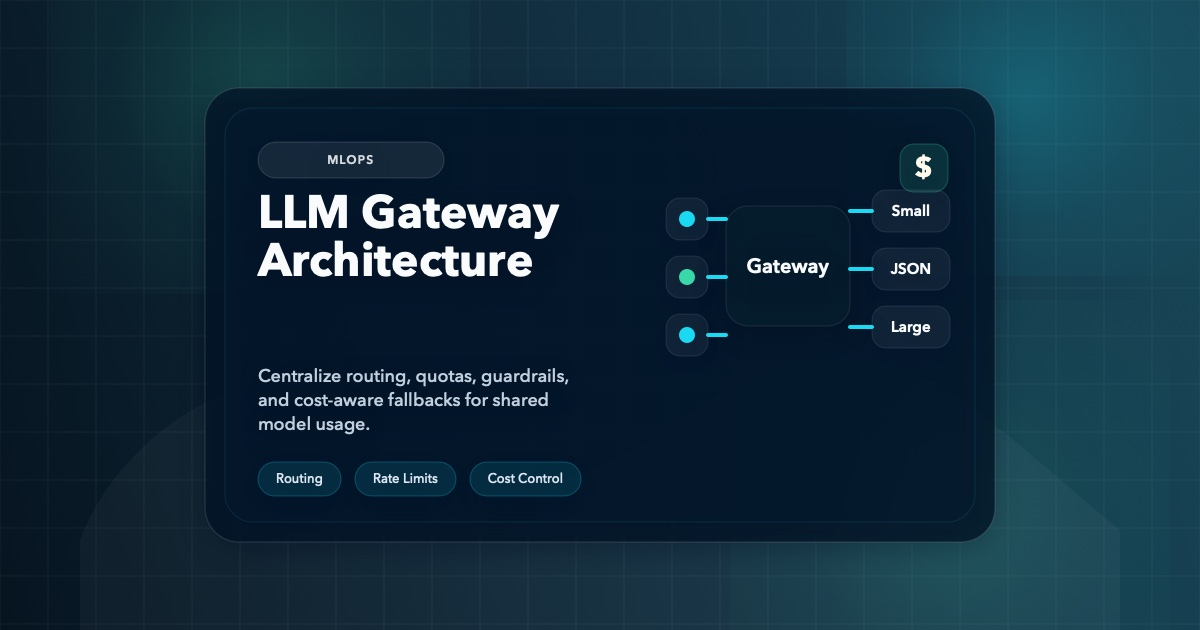
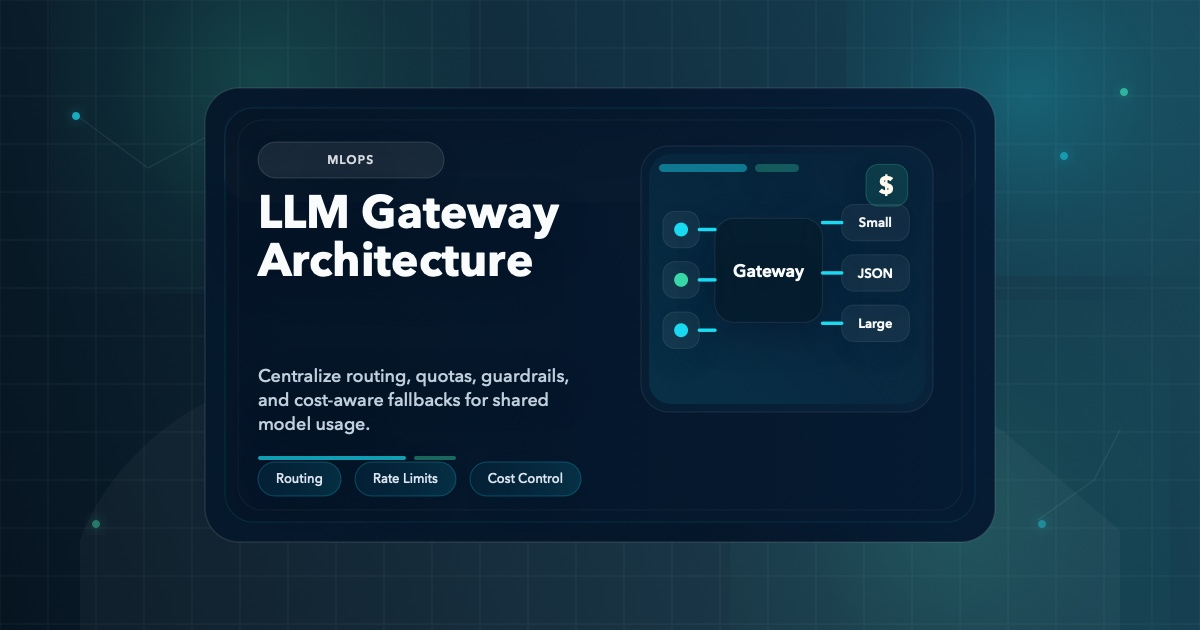
fixed blog cover image loading

diff --git a/scripts/generate-blog-images.swift b/scripts/generate-blog-images.swift
@@ -77,6 +77,62 @@ func fillRoundedRect(_ rect: NSRect, radius: CGFloat, fill: NSColor, stroke: NSC
     }
 }
 
+func fillGradientRoundedRect(
+    _ rect: NSRect,
+    radius: CGFloat,
+    colors: [NSColor],
+    angle: CGFloat,
+    stroke: NSColor? = nil,
+    lineWidth: CGFloat = 1
+) {
+    let path = NSBezierPath(roundedRect: rect, xRadius: radius, yRadius: radius)
+    NSGraphicsContext.current?.saveGraphicsState()
+    path.addClip()
+    NSGradient(colors: colors)?.draw(in: rect, angle: angle)
+    NSGraphicsContext.current?.restoreGraphicsState()
+    if let stroke {
+        stroke.setStroke()
+        path.lineWidth = lineWidth
+        path.stroke()
+    }
+}
+
+func drawOrb(x: CGFloat, y: CGFloat, radius: CGFloat, fill: NSColor, glow: NSColor? = nil) {
+    if let glow {
+        drawGlow(x: x + radius, y: y + radius, radius: radius * 2.8, color: glow, alpha: 0.10)
+    }
+    let orb = NSBezierPath(ovalIn: topRect(x, y, radius * 2, radius * 2))
+    fill.setFill()
+    orb.fill()
+}
+
+func drawBackdropConstellation(accent: NSColor, secondaryAccent: NSColor) {
+    let points: [(CGFloat, CGFloat, NSColor)] = [
+        (72, 112, accent.withAlphaComponent(0.72)),
+        (1120, 88, secondaryAccent.withAlphaComponent(0.72)),
+        (1060, 152, accent.withAlphaComponent(0.48)),
+        (92, 520, secondaryAccent.withAlphaComponent(0.42)),
+        (1038, 520, accent.withAlphaComponent(0.38))
+    ]
+
+    let connectors = NSBezierPath()
+    connectors.move(to: topPoint(72, 112))
+    connectors.line(to: topPoint(148, 168))
+    connectors.line(to: topPoint(204, 138))
+    connectors.move(to: topPoint(1038, 520))
+    connectors.line(to: topPoint(1094, 480))
+    connectors.line(to: topPoint(1120, 430))
+    color(hex: 0xffffff, alpha: 0.08).setStroke()
+    connectors.lineWidth = 1.2
+    connectors.lineJoinStyle = .round
+    connectors.lineCapStyle = .round
+    connectors.stroke()
+
+    for (x, y, fill) in points {
+        drawOrb(x: x, y: y, radius: 4, fill: fill, glow: fill)
+    }
+}
+
 func makeTextAttributes(
     font: NSFont,
     color textColor: NSColor,
@@ -303,10 +359,14 @@ func drawChip(text: String, x: CGFloat, y: CGFloat, accent: NSColor) -> CGFloat 
     let measureAttrs: [NSAttributedString.Key: Any] = [.font: avenir(13, "Avenir Next Medium")]
     let width = ceil(NSString(string: text).size(withAttributes: measureAttrs).width) + 36
     let rect = topRect(x, y, width, 34)
-    fillRoundedRect(
+    fillGradientRoundedRect(
         rect,
         radius: 17,
-        fill: accent.withAlphaComponent(0.12),
+        colors: [
+            color(hex: 0x07192a, alpha: 0.92),
+            accent.withAlphaComponent(0.14)
+        ],
+        angle: 0,
         stroke: accent.withAlphaComponent(0.26)
     )
     drawCenteredText(
@@ -323,28 +383,79 @@ func drawChip(text: String, x: CGFloat, y: CGFloat, accent: NSColor) -> CGFloat 
 func drawCardChrome(accent: NSColor) {
     let cardRect = topRect(205, 88, 790, 454)
     let shadow = NSShadow()
-    shadow.shadowBlurRadius = 30
-    shadow.shadowOffset = NSSize(width: 0, height: -8)
-    shadow.shadowColor = color(hex: 0x020617, alpha: 0.33)
+    shadow.shadowBlurRadius = 42
+    shadow.shadowOffset = NSSize(width: 0, height: -12)
+    shadow.shadowColor = color(hex: 0x020617, alpha: 0.42)
     shadow.set()
 
-    fillRoundedRect(
+    fillGradientRoundedRect(
         cardRect,
         radius: 34,
-        fill: color(hex: 0x04101d, alpha: 0.78),
+        colors: [
+            color(hex: 0x071321, alpha: 0.96),
+            color(hex: 0x05111f, alpha: 0.94),
+            color(hex: 0x08162a, alpha: 0.96)
+        ],
+        angle: 24,
         stroke: color(hex: 0xffffff, alpha: 0.10),
         lineWidth: 1.5
     )
+
+    let topSheen = NSBezierPath(roundedRect: topRect(224, 104, 752, 98), xRadius: 28, yRadius: 28)
+    NSGraphicsContext.current?.saveGraphicsState()
+    topSheen.addClip()
+    NSGradient(colors: [
+        color(hex: 0xffffff, alpha: 0.09),
+        color(hex: 0xffffff, alpha: 0.00)
+    ])?.draw(in: topRect(224, 104, 752, 98), angle: 90)
+    NSGraphicsContext.current?.restoreGraphicsState()
+
     NSGraphicsContext.current?.saveGraphicsState()
     let innerRect = topRect(225, 108, 750, 414)
-    fillRoundedRect(
+    fillGradientRoundedRect(
         innerRect,
         radius: 28,
-        fill: color(hex: 0x061423, alpha: 0.42),
+        colors: [
+            color(hex: 0x071526, alpha: 0.82),
+            color(hex: 0x07111d, alpha: 0.78)
+        ],
+        angle: 180,
         stroke: accent.withAlphaComponent(0.12),
         lineWidth: 1
     )
+    let insetBorder = NSBezierPath(roundedRect: topRect(238, 120, 724, 390), xRadius: 24, yRadius: 24)
+    color(hex: 0xffffff, alpha: 0.05).setStroke()
+    insetBorder.lineWidth = 1
+    insetBorder.stroke()
     NSGraphicsContext.current?.restoreGraphicsState()
+}
+
+func drawArtworkPanel(in rect: NSRect, accent: NSColor, secondaryAccent: NSColor) {
+    fillGradientRoundedRect(
+        rect,
+        radius: 28,
+        colors: [
+            color(hex: 0x0a1a2d, alpha: 0.92),
+            color(hex: 0x091728, alpha: 0.90)
+        ],
+        angle: 180,
+        stroke: color(hex: 0xffffff, alpha: 0.08),
+        lineWidth: 1.2
+    )
+
+    let edgeGlow = NSBezierPath(roundedRect: rect.insetBy(dx: 8, dy: 8), xRadius: 22, yRadius: 22)
+    NSGraphicsContext.current?.saveGraphicsState()
+    edgeGlow.addClip()
+    NSGradient(colors: [
+        accent.withAlphaComponent(0.10),
+        color(hex: 0xffffff, alpha: 0.0)
+    ])?.draw(in: rect.insetBy(dx: 8, dy: 8), angle: 35)
+    NSGraphicsContext.current?.restoreGraphicsState()
+
+    let topRail = NSRect(x: rect.origin.x + 18, y: rect.maxY - 26, width: 88, height: 8)
+    fillRoundedRect(topRail, radius: 4, fill: accent.withAlphaComponent(0.46))
+    let topRail2 = NSRect(x: rect.origin.x + 114, y: rect.maxY - 26, width: 44, height: 8)
+    fillRoundedRect(topRail2, radius: 4, fill: secondaryAccent.withAlphaComponent(0.30))
 }
 
 func drawGpuArtwork(accent: NSColor, secondaryAccent: NSColor) {
@@ -472,12 +583,12 @@ func drawPipelineArtwork(accent: NSColor, secondaryAccent: NSColor) {
     }
 
     let cubeOuter = NSBezierPath()
-    cubeOuter.move(to: topPoint(930, 154))
-    cubeOuter.line(to: topPoint(968, 176))
-    cubeOuter.line(to: topPoint(968, 220))
-    cubeOuter.line(to: topPoint(930, 242))
-    cubeOuter.line(to: topPoint(892, 220))
-    cubeOuter.line(to: topPoint(892, 176))
+    cubeOuter.move(to: topPoint(946, 158))
+    cubeOuter.line(to: topPoint(978, 176))
+    cubeOuter.line(to: topPoint(978, 214))
+    cubeOuter.line(to: topPoint(946, 232))
+    cubeOuter.line(to: topPoint(914, 214))
+    cubeOuter.line(to: topPoint(914, 176))
     cubeOuter.close()
     secondaryAccent.withAlphaComponent(0.18).setFill()
     secondaryAccent.withAlphaComponent(0.42).setStroke()
@@ -486,11 +597,11 @@ func drawPipelineArtwork(accent: NSColor, secondaryAccent: NSColor) {
     cubeOuter.stroke()
 
     let cubeMid = NSBezierPath()
-    cubeMid.move(to: topPoint(930, 154))
-    cubeMid.line(to: topPoint(930, 242))
-    cubeMid.move(to: topPoint(892, 176))
-    cubeMid.line(to: topPoint(930, 198))
-    cubeMid.line(to: topPoint(968, 176))
+    cubeMid.move(to: topPoint(946, 158))
+    cubeMid.line(to: topPoint(946, 232))
+    cubeMid.move(to: topPoint(914, 176))
+    cubeMid.line(to: topPoint(946, 194))
+    cubeMid.line(to: topPoint(978, 176))
     secondaryAccent.withAlphaComponent(0.50).setStroke()
     cubeMid.lineWidth = 2
     cubeMid.stroke()
@@ -878,7 +989,7 @@ func drawCanaryArtwork(accent: NSColor, secondaryAccent: NSColor) {
         )
     }
 
-    let guardRect = topRect(892, 142, 52, 52)
+    let guardRect = topRect(910, 136, 46, 46)
     fillRoundedRect(
         guardRect,
         radius: 16,
@@ -886,12 +997,12 @@ func drawCanaryArtwork(accent: NSColor, secondaryAccent: NSColor) {
         stroke: secondaryAccent.withAlphaComponent(0.34)
     )
     let shield = NSBezierPath()
-    shield.move(to: topPoint(918, 154))
-    shield.line(to: topPoint(932, 160))
-    shield.line(to: topPoint(932, 176))
-    shield.curve(to: topPoint(918, 188), controlPoint1: topPoint(932, 182), controlPoint2: topPoint(924, 188))
-    shield.curve(to: topPoint(904, 176), controlPoint1: topPoint(912, 188), controlPoint2: topPoint(904, 182))
-    shield.line(to: topPoint(904, 160))
+    shield.move(to: topPoint(933, 146))
+    shield.line(to: topPoint(945, 151))
+    shield.line(to: topPoint(945, 165))
+    shield.curve(to: topPoint(933, 175), controlPoint1: topPoint(945, 170), controlPoint2: topPoint(939, 175))
+    shield.curve(to: topPoint(921, 165), controlPoint1: topPoint(927, 175), controlPoint2: topPoint(921, 170))
+    shield.line(to: topPoint(921, 151))
     shield.close()
     color(hex: 0xfffbeb).setFill()
     shield.fill()
@@ -1064,6 +1175,7 @@ func render(spec: CoverSpec, outputDir: URL) throws {
 
     drawGradient(in: topRect(0, 0, canvasWidth, canvasHeight), colors: spec.palette, angle: 18)
     drawGrid()
+    drawBackdropConstellation(accent: spec.accent, secondaryAccent: spec.secondaryAccent)
 
     drawGlow(x: 260, y: 84, radius: 210, color: spec.secondaryAccent, alpha: 0.18)
     drawGlow(x: 1026, y: 96, radius: 180, color: spec.accent, alpha: 0.22)
@@ -1100,13 +1212,53 @@ func render(spec: CoverSpec, outputDir: URL) throws {
         lineHeight: 1.34
     )
 
+    fillRoundedRect(
+        topRect(258, 456, 148, 4),
+        radius: 2,
+        fill: spec.accent.withAlphaComponent(0.70)
+    )
+    fillRoundedRect(
+        topRect(414, 456, 42, 4),
+        radius: 2,
+        fill: spec.secondaryAccent.withAlphaComponent(0.42)
+    )
+
     var chipX: CGFloat = 258
     for text in spec.chipText {
         let chipWidth = drawChip(text: text, x: chipX, y: 462, accent: spec.accent)
         chipX += chipWidth + 14
     }
 
+    NSGraphicsContext.current?.saveGraphicsState()
+    // Fit all right-side artwork into a consistent safe zone so it keeps similar padding
+    // from the card edges instead of drifting into the right boundary.
+    let artworkSourceRect = topRect(650, 132, 318, 288)
+    let artworkSafeZone = topRect(644, 154, 286, 250)
+    let artworkScale = min(
+        artworkSafeZone.width / artworkSourceRect.width,
+        artworkSafeZone.height / artworkSourceRect.height
+    )
+    let fittedWidth = artworkSourceRect.width * artworkScale
+    let fittedHeight = artworkSourceRect.height * artworkScale
+    let fittedRect = NSRect(
+        x: artworkSafeZone.origin.x + (artworkSafeZone.width - fittedWidth) / 2,
+        y: artworkSafeZone.origin.y + (artworkSafeZone.height - fittedHeight) / 2,
+        width: fittedWidth,
+        height: fittedHeight
+    )
+
+    drawArtworkPanel(in: fittedRect.insetBy(dx: -8, dy: -8), accent: spec.accent, secondaryAccent: spec.secondaryAccent)
+
+    NSBezierPath(roundedRect: fittedRect, xRadius: 24, yRadius: 24).addClip()
+
+    let artworkTransform = NSAffineTransform()
+    artworkTransform.translateX(by: fittedRect.origin.x, yBy: fittedRect.origin.y)
+    artworkTransform.scale(by: artworkScale)
+    artworkTransform.translateX(by: -artworkSourceRect.origin.x, yBy: -artworkSourceRect.origin.y)
+    artworkTransform.concat()
+
     spec.artwork()
+    NSGraphicsContext.current?.restoreGraphicsState()
 
     NSGraphicsContext.restoreGraphicsState()
 

diff --git a/next.config.js b/next.config.js
@@ -29,6 +29,7 @@ const withMDX = require('@next/mdx')({
 const nextConfig = {
   pageExtensions: ['ts', 'tsx', 'js', 'jsx', 'md', 'mdx'],
   images: {
+    unoptimized: true,
     remotePatterns: [
       {
         protocol: 'https',
